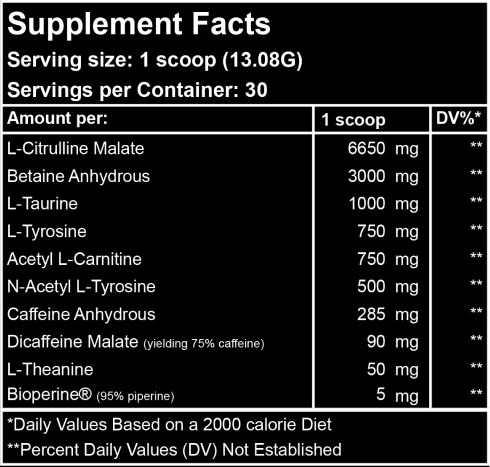
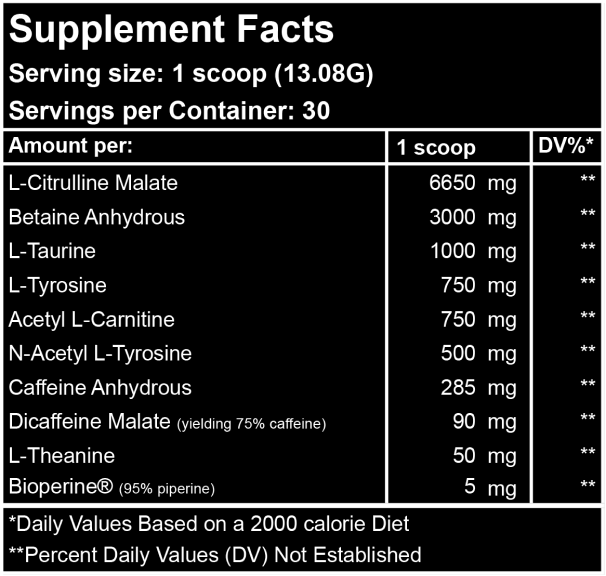
added synergy, supplement facts, and changed route to collection

Changed region(s): [[0.0, 0.0, 1.0, 1.0]]

diff --git a/src/images/consts.js b/src/images/consts.js
@@ -3,8 +3,15 @@ import tartarus from "./tartarus.png";
 import olympus from "./olympus.png";
 import asphodel from "./asphodel.png";
 import elysium from "./elysium.png";
+import synergy from "./synergy.png";
 import olympusAdvertisement from "./olympus-advertisement.png";
+
+import essentialsSupp from "./essentials-supp.png";
 import tartarusSupp from "./tartarus-supp.png";
+import olympusSupp from "./olympus-supp.png";
+import asphodelSupp from "./asphodel-supp.png";
+import elysiumSupp from "./elysium-supp.png";
+import synergySupp from "./synergy-supp.png";
 
 import sourCherry from "./cherry.png";
 import dragonsBreath from "./dragons-breath.png";
@@ -31,13 +38,19 @@ export const dictOfImages = {
   olympus: olympus,
   asphodel: asphodel,
   elysium: elysium,
+  synergy: synergy,
   olympusAdvertisementImage: olympusAdvertisement,
 };
 
 export const tartarusSuppImage = tartarusSupp;
 
 export const dictOfSupplementFacts = {
+  essentials: essentialsSupp,
   tartarus: tartarusSupp,
+  olympus: olympusSupp,
+  asphodel: asphodelSupp,
+  elysium: elysiumSupp,
+  synergy: synergySupp,
 };
 
 export const dictOfFlavours = {

diff --git a/src/shared/Navbar.jsx b/src/shared/Navbar.jsx
@@ -33,7 +33,7 @@ export const Navbar = ({ transparent }) => {
             </LogoWhite>
           </Link>
           <NavWhite>
-            <Link to="/collections">SHOP</Link>
+            <Link to="/collection">SHOP</Link>
             <Link to="/about">ABOUT US</Link>
           </NavWhite>
           <Cart transparent>
@@ -54,7 +54,7 @@ export const Navbar = ({ transparent }) => {
           </Logo>
         </Link>
         <Nav>
-          <Link to="/collections">SHOP</Link>
+          <Link to="/collection">SHOP</Link>
           <Link to="/about">ABOUT US</Link>
         </Nav>
         <Cart>

diff --git a/src/App.jsx b/src/App.jsx
@@ -12,7 +12,7 @@ function App() {
       <div className="App">
         <Routes>
           <Route path="/" element={<MainPage cart={cart} />} />
-          <Route path="/collections" element={<Shop />} />
+          <Route path="/collection" element={<Shop />} />
           <Route path="/about" element={<Shop />} />
           <Route path="/add" element={<Add />} />
           <Route

diff --git a/src/components/MainPage/Advertisement.jsx b/src/components/MainPage/Advertisement.jsx
@@ -26,7 +26,7 @@ export const Advertisement = () => {
           <Button
             large={true}
             onClick={() => {
-              navigate("/collections");
+              navigate("/collection");
             }}
           >
             BUY NOW

diff --git a/src/shared/TubCard.jsx b/src/shared/TubCard.jsx
@@ -11,7 +11,7 @@ export const TubCard = ({ img, title, subtitle, price, buttonText }) => {
   const navigate = useNavigate();
 
   const navigateToShop = () => {
-    navigate("/collections");
+    navigate("/collection");
   };
 
   return (
